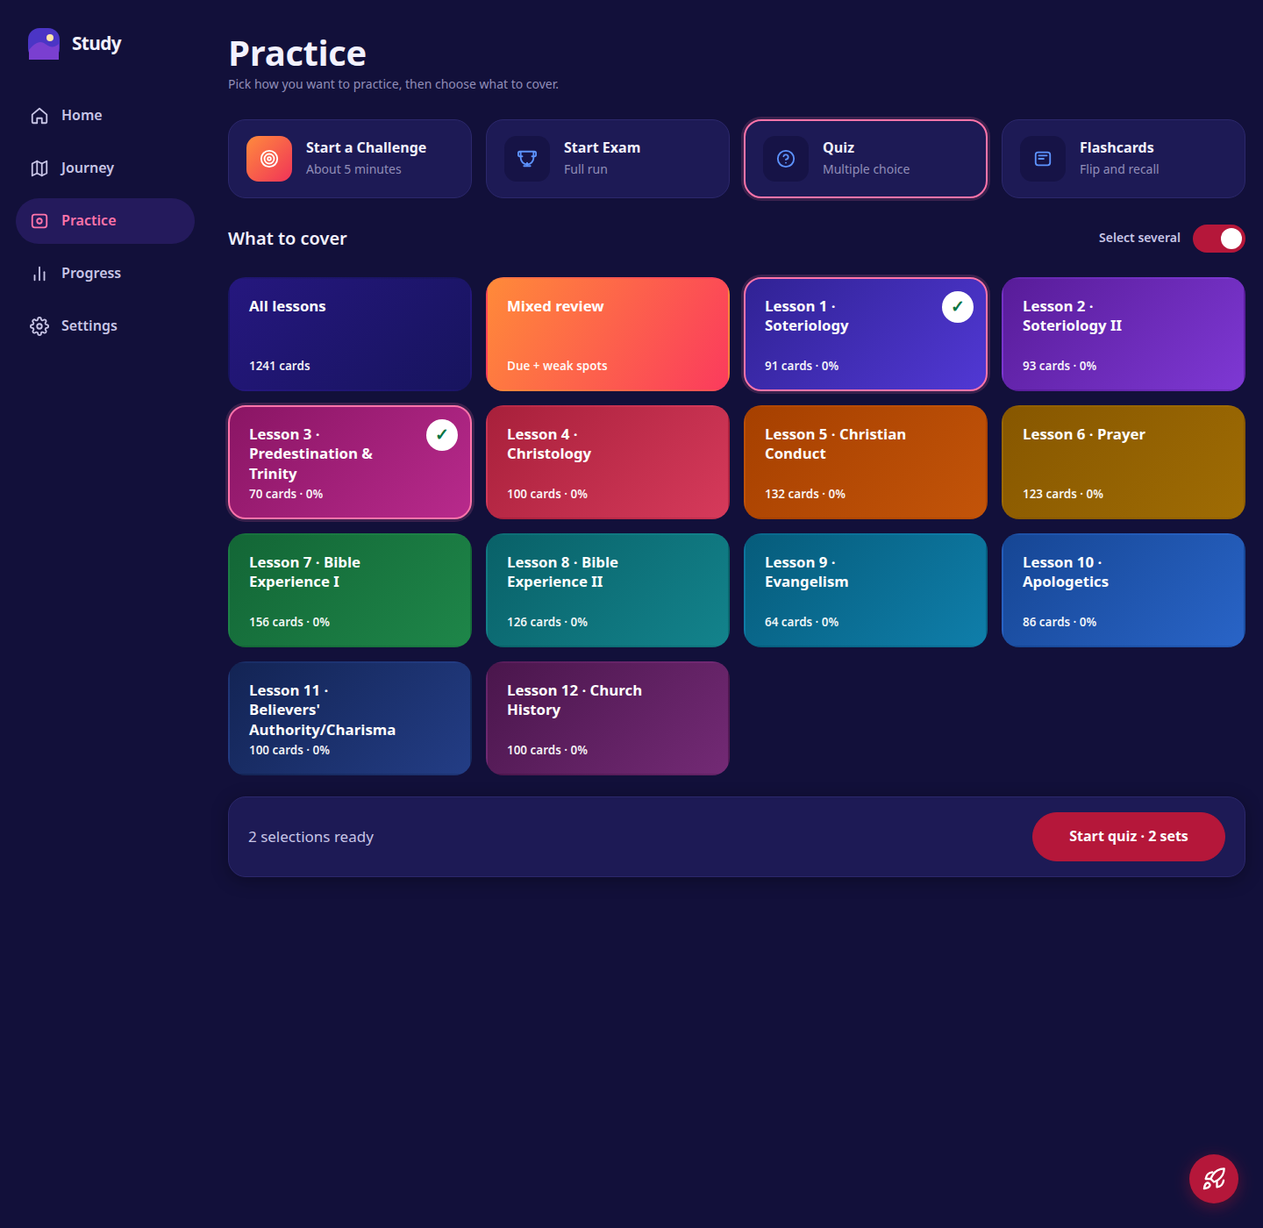
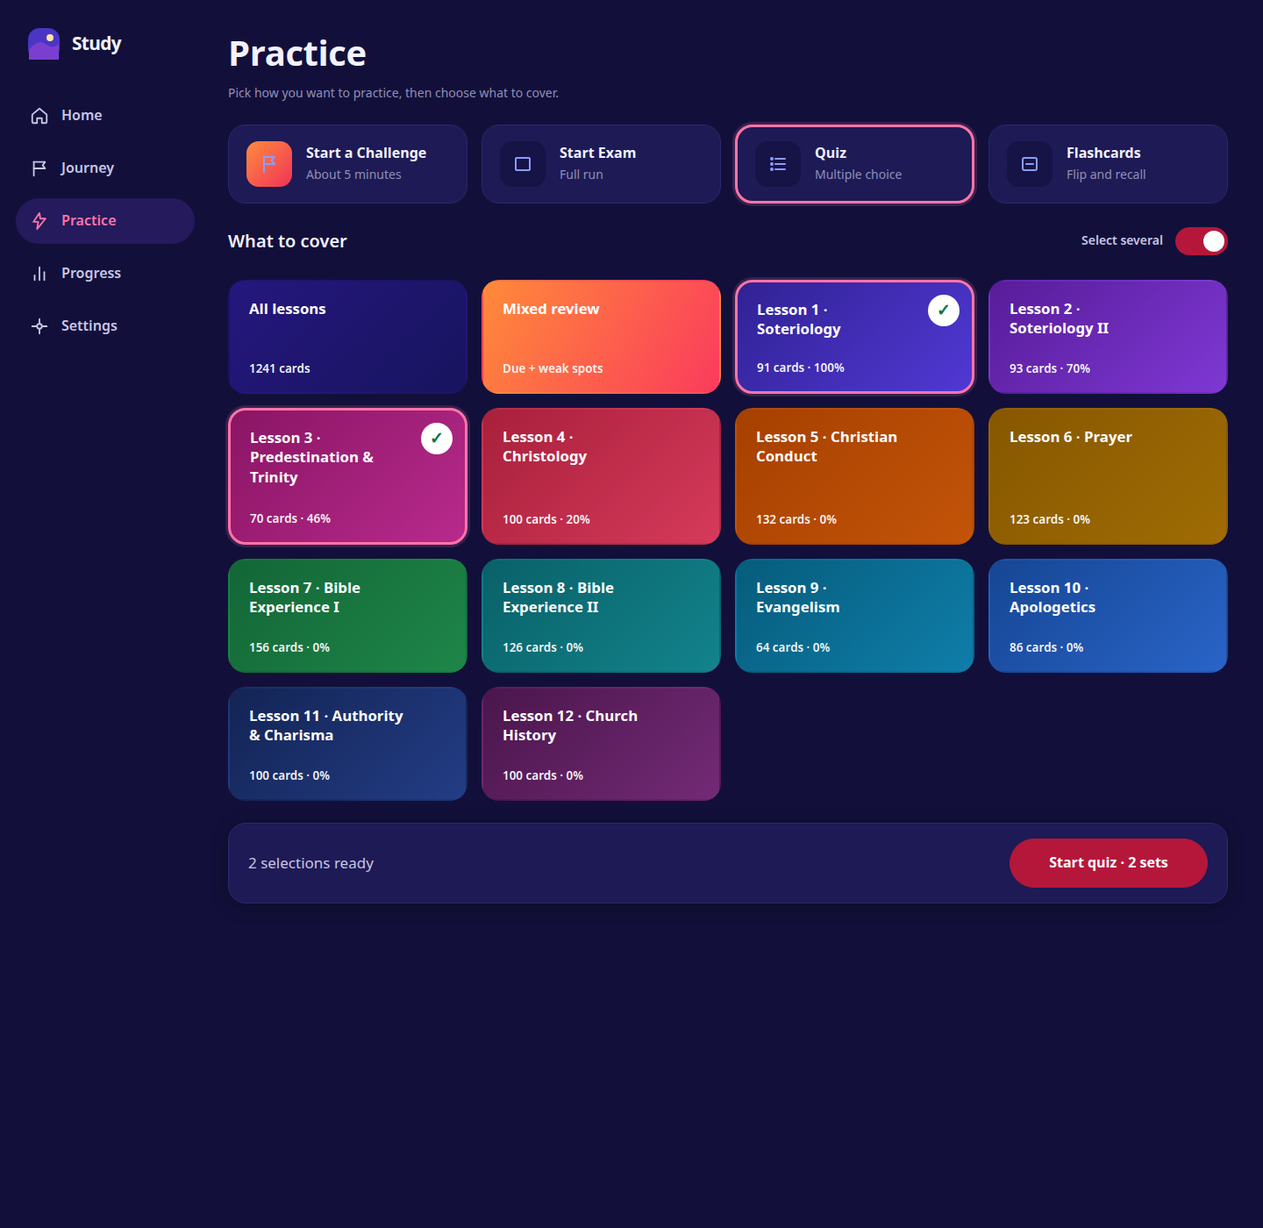
fix: align Practice chooser with desktop reference

Changed region(s): [[0.1562, 0.0614, 1.0, 0.7371], [0.9375, 0.9214, 1.0, 0.9829]]

diff --git a/dist/index.html b/dist/index.html
@@ -7646,6 +7646,61 @@ html[data-theme="dark"] .practice-cover-tile.is-selected {
   }
 }
 
+
+/* Desktop Practice reference corrections */
+@media (min-width: 901px) {
+  .desktop-main > .practice-selection-view {
+    width: calc(100% - 20px);
+    max-width: none;
+    margin-left: 0;
+  }
+
+  .practice-selection-view .practice-view-header h1 {
+    margin-bottom: 14px;
+  }
+
+  .practice-selection-view .practice-mode-grid {
+    margin: 26px 0 23px;
+  }
+
+  .practice-selection-view .practice-cover-heading {
+    margin-bottom: 24px;
+  }
+
+  .practice-selection-view .practice-mode-tile.is-selected {
+    border-width: 3px;
+  }
+
+  .practice-selection-view .practice-cover-tile.is-selected {
+    border-width: 3px;
+  }
+
+  .practice-selection-view .practice-cover-grid > .practice-cover-tile:nth-child(n+5):nth-child(-n+8) {
+    min-height: 156px;
+  }
+
+  .practice-selection-view .practice-start-button {
+    min-width: 226px;
+  }
+
+  .practice-selection-view .practice-start-bar {
+    margin-top: 25px;
+  }
+
+  .practice-selection-view .practice-cover-tile.deck-grad-11 .practice-cover-title {
+    max-width: 190px;
+    padding-right: 0;
+  }
+
+  .practice-selection-view .practice-mode-icon {
+    color: #3928B9;
+  }
+
+  :root[data-theme="dark"] .practice-selection-view .practice-mode-icon {
+    color: #8B9CFF;
+  }
+}
+
 </style>
 </head>
 <body>
@@ -9191,13 +9246,13 @@ html[data-theme="dark"] .practice-cover-tile.is-selected {
       case 'home':
         return '<svg viewBox="0 0 24 24" width="22" height="22" stroke="currentColor" stroke-width="2" fill="none" stroke-linecap="round" stroke-linejoin="round" aria-hidden="true"><path d="M3 10.5L12 3l9 7.5V20a1 1 0 0 1-1 1h-5v-6h-6v6H4a1 1 0 0 1-1-1z"/></svg>';
       case 'journey':
-        return '<svg viewBox="0 0 24 24" width="22" height="22" stroke="currentColor" stroke-width="2" fill="none" stroke-linecap="round" stroke-linejoin="round" aria-hidden="true"><polygon points="3 6 9 3 15 6 21 3 21 18 15 21 9 18 3 21"/><line x1="9" y1="3" x2="9" y2="18"/><line x1="15" y1="6" x2="15" y2="21"/></svg>';
+        return '<svg viewBox="0 0 24 24" width="22" height="22" stroke="currentColor" stroke-width="2" fill="none" stroke-linecap="round" stroke-linejoin="round" aria-hidden="true"><path d="M5 21V4"/><path d="M5 4h14l-3 4 3 4H5"/></svg>';
       case 'practice':
-        return '<svg viewBox="0 0 24 24" width="22" height="22" stroke="currentColor" stroke-width="2" fill="none" stroke-linecap="round" stroke-linejoin="round" aria-hidden="true"><rect x="3" y="4" width="18" height="16" rx="3"/><circle cx="12" cy="12" r="3"/><line x1="12" y1="9" x2="12" y2="9.01"/><line x1="12" y1="15" x2="12" y2="15.01"/></svg>';
+        return '<svg viewBox="0 0 24 24" width="22" height="22" stroke="currentColor" stroke-width="2" fill="none" stroke-linecap="round" stroke-linejoin="round" aria-hidden="true"><path d="M12 2 4.5 13h6L9 22l10.5-13H13z"/></svg>';
       case 'progress':
         return '<svg viewBox="0 0 24 24" width="22" height="22" stroke="currentColor" stroke-width="2" fill="none" stroke-linecap="round" stroke-linejoin="round" aria-hidden="true"><line x1="18" y1="20" x2="18" y2="10"/><line x1="12" y1="20" x2="12" y2="4"/><line x1="6" y1="20" x2="6" y2="14"/></svg>';
       case 'settings':
-        return '<svg viewBox="0 0 24 24" width="22" height="22" stroke="currentColor" stroke-width="2" fill="none" stroke-linecap="round" stroke-linejoin="round" aria-hidden="true"><circle cx="12" cy="12" r="3"/><path d="M19.4 15a1.65 1.65 0 0 0 .33 1.82l.06.06a2 2 0 1 1-2.83 2.83l-.06-.06a1.65 1.65 0 0 0-1.82-.33 1.65 1.65 0 0 0-1 1.51V21a2 2 0 1 1-4 0v-.09A1.65 1.65 0 0 0 9 19.4a1.65 1.65 0 0 0-1.82.33l-.06.06a2 2 0 1 1-2.83-2.83l.06-.06a1.65 1.65 0 0 0 .33-1.82 1.65 1.65 0 0 0-1.51-1H3a2 2 0 1 1 0-4h.09A1.65 1.65 0 0 0 4.6 9a1.65 1.65 0 0 0-.33-1.82l-.06-.06a2 2 0 1 1 2.83-2.83l.06.06a1.65 1.65 0 0 0 1.82.33H9a1.65 1.65 0 0 0 1-1.51V3a2 2 0 1 1 4 0v.09a1.65 1.65 0 0 0 1 1.51 1.65 1.65 0 0 0 1.82-.33l.06-.06a2 2 0 1 1 2.83 2.83l-.06.06a1.65 1.65 0 0 0-.33 1.82V9a1.65 1.65 0 0 0 1.51 1H21a2 2 0 1 1 0 4h-.09a1.65 1.65 0 0 0-1.51 1z"/></svg>';
+        return '<svg viewBox="0 0 24 24" width="22" height="22" stroke="currentColor" stroke-width="2" fill="none" stroke-linecap="round" stroke-linejoin="round" aria-hidden="true"><line x1="12" y1="3" x2="12" y2="8"/><line x1="12" y1="16" x2="12" y2="21"/><line x1="3" y1="12" x2="8" y2="12"/><line x1="16" y1="12" x2="21" y2="12"/><circle cx="12" cy="12" r="3"/></svg>';
       default:
         return '';
     }
@@ -9578,6 +9633,14 @@ html[data-theme="dark"] .practice-cover-tile.is-selected {
 
   function getStepIconSvg(icon) {
     switch (icon) {
+      case 'practice-challenge':
+        return '<svg viewBox="0 0 24 24" width="24" height="24" stroke="currentColor" stroke-width="2" fill="none" stroke-linecap="round" stroke-linejoin="round" aria-hidden="true"><path d="M6 21V4"/><path d="M6 4h12l-3.5 4 3.5 4H6"/></svg>';
+      case 'practice-exam':
+        return '<svg viewBox="0 0 24 24" width="24" height="24" stroke="currentColor" stroke-width="2" fill="none" stroke-linecap="round" stroke-linejoin="round" aria-hidden="true"><rect x="4" y="5" width="16" height="14" rx="1"/></svg>';
+      case 'practice-quiz':
+        return '<svg viewBox="0 0 24 24" width="24" height="24" stroke="currentColor" stroke-width="2" fill="none" stroke-linecap="round" stroke-linejoin="round" aria-hidden="true"><circle cx="5" cy="6" r="1"/><line x1="9" y1="6" x2="20" y2="6"/><circle cx="5" cy="12" r="1"/><line x1="9" y1="12" x2="20" y2="12"/><circle cx="5" cy="18" r="1"/><line x1="9" y1="18" x2="20" y2="18"/></svg>';
+      case 'practice-flash':
+        return '<svg viewBox="0 0 24 24" width="24" height="24" stroke="currentColor" stroke-width="2" fill="none" stroke-linecap="round" stroke-linejoin="round" aria-hidden="true"><rect x="4" y="5" width="16" height="14" rx="2"/><line x1="8" y1="12" x2="16" y2="12"/></svg>';
       case 'flash':
         return '<svg viewBox="0 0 24 24" width="22" height="22" stroke="currentColor" stroke-width="2" fill="none" stroke-linecap="round" stroke-linejoin="round" aria-hidden="true"><rect x="3" y="4" width="18" height="16" rx="3"/><line x1="7" y1="8" x2="17" y2="8"/><line x1="7" y1="12" x2="13" y2="12"/></svg>';
       case 'quiz':
@@ -9743,10 +9806,10 @@ html[data-theme="dark"] .practice-cover-tile.is-selected {
     var allSelected = S.decks.length > 0 && S.decks.every(function (d) { return SEL.has(d.id); });
     var selectedCount = SEL.size + (V.practiceMixed ? 1 : 0);
     var modeTiles = [
-      { id: 'challenge', title: 'Start a Challenge', description: 'About 5 minutes', icon: 'target' },
-      { id: 'exam', title: 'Start Exam', description: 'Full run', icon: 'trophy' },
-      { id: 'quiz', title: 'Quiz', description: 'Multiple choice', icon: 'quiz' },
-      { id: 'flash', title: 'Flashcards', description: 'Flip and recall', icon: 'flash' }
+      { id: 'challenge', title: 'Start a Challenge', description: 'About 5 minutes', icon: 'practice-challenge' },
+      { id: 'exam', title: 'Start Exam', description: 'Full run', icon: 'practice-exam' },
+      { id: 'quiz', title: 'Quiz', description: 'Multiple choice', icon: 'practice-quiz' },
+      { id: 'flash', title: 'Flashcards', description: 'Flip and recall', icon: 'practice-flash' }
     ].map(function (item) {
       var selected = mode === item.id;
       return '<button type="button" class="practice-mode-tile' + (selected ? ' is-selected' : '') + '" data-act="practice-mode" data-mode="' + item.id + '" aria-pressed="' + selected + '">' +
@@ -9757,11 +9820,12 @@ html[data-theme="dark"] .practice-cover-tile.is-selected {
     var deckTiles = S.decks.map(function (d, index) {
       var parsed = MobileStudy.parseChapterTitle(d.title);
       var section = parsed.sectionNum || index + 1;
+      var displayTopic = section === 11 && parsed.topic === "Believers' Authority/Charisma" ? 'Authority & Charisma' : parsed.topic;
       var mastered = d.cards.filter(function (card) { return isMastered(d.id, card.id); }).length;
       var pct = d.cards.length ? Math.round(100 * mastered / d.cards.length) : 0;
       var selected = SEL.has(d.id);
-      return '<button type="button" class="practice-cover-tile deck-grad-' + (((section - 1) % 12) + 1) + (selected ? ' is-selected' : '') + '" data-act="practice-cover" data-id="' + esc(d.id) + '" aria-pressed="' + selected + '" aria-label="Lesson ' + section + ', ' + esc(parsed.topic) + ', ' + d.cards.length + ' cards, ' + pct + ' percent mastered">' +
-        '<span class="practice-cover-title">Lesson ' + section + ' · ' + esc(parsed.topic) + '</span>' +
+      return '<button type="button" class="practice-cover-tile deck-grad-' + (((section - 1) % 12) + 1) + (selected ? ' is-selected' : '') + '" data-act="practice-cover" data-id="' + esc(d.id) + '" aria-pressed="' + selected + '" aria-label="Lesson ' + section + ', ' + esc(displayTopic) + ', ' + d.cards.length + ' cards, ' + pct + ' percent mastered">' +
+        '<span class="practice-cover-title">Lesson ' + section + ' · ' + esc(displayTopic) + '</span>' +
         '<span class="practice-cover-stats">' + d.cards.length + ' cards · ' + pct + '%</span>' +
         (selected ? '<span class="practice-cover-check" aria-hidden="true">✓</span>' : '') +
       '</button>';
@@ -10760,7 +10824,7 @@ html[data-theme="dark"] .practice-cover-tile.is-selected {
     var view = V.name === 'exam' ? views.quiz : views[V.name];
     if (typeof view !== 'function') view = views.home;
     var tabBarHtml = isMainTab ? renderTabBar(V.name) : '';
-    var showRocket = V.name === 'home' || V.name === 'journey' || V.name === 'practice';
+    var showRocket = V.name === 'home' || V.name === 'journey';
     var rocketHtml = showRocket ? renderRocketFab() : '';
     app.innerHTML = banner() +
       '<div class="desktop-shell' + (hasDesktopSidebar ? '' : ' desktop-shell-full') + (V.name === 'home' ? ' desktop-shell-home' : '') + '">' +

diff --git a/js/app.js b/js/app.js
@@ -499,13 +499,13 @@
       case 'home':
         return '<svg viewBox="0 0 24 24" width="22" height="22" stroke="currentColor" stroke-width="2" fill="none" stroke-linecap="round" stroke-linejoin="round" aria-hidden="true"><path d="M3 10.5L12 3l9 7.5V20a1 1 0 0 1-1 1h-5v-6h-6v6H4a1 1 0 0 1-1-1z"/></svg>';
       case 'journey':
-        return '<svg viewBox="0 0 24 24" width="22" height="22" stroke="currentColor" stroke-width="2" fill="none" stroke-linecap="round" stroke-linejoin="round" aria-hidden="true"><polygon points="3 6 9 3 15 6 21 3 21 18 15 21 9 18 3 21"/><line x1="9" y1="3" x2="9" y2="18"/><line x1="15" y1="6" x2="15" y2="21"/></svg>';
+        return '<svg viewBox="0 0 24 24" width="22" height="22" stroke="currentColor" stroke-width="2" fill="none" stroke-linecap="round" stroke-linejoin="round" aria-hidden="true"><path d="M5 21V4"/><path d="M5 4h14l-3 4 3 4H5"/></svg>';
       case 'practice':
-        return '<svg viewBox="0 0 24 24" width="22" height="22" stroke="currentColor" stroke-width="2" fill="none" stroke-linecap="round" stroke-linejoin="round" aria-hidden="true"><rect x="3" y="4" width="18" height="16" rx="3"/><circle cx="12" cy="12" r="3"/><line x1="12" y1="9" x2="12" y2="9.01"/><line x1="12" y1="15" x2="12" y2="15.01"/></svg>';
+        return '<svg viewBox="0 0 24 24" width="22" height="22" stroke="currentColor" stroke-width="2" fill="none" stroke-linecap="round" stroke-linejoin="round" aria-hidden="true"><path d="M12 2 4.5 13h6L9 22l10.5-13H13z"/></svg>';
       case 'progress':
         return '<svg viewBox="0 0 24 24" width="22" height="22" stroke="currentColor" stroke-width="2" fill="none" stroke-linecap="round" stroke-linejoin="round" aria-hidden="true"><line x1="18" y1="20" x2="18" y2="10"/><line x1="12" y1="20" x2="12" y2="4"/><line x1="6" y1="20" x2="6" y2="14"/></svg>';
       case 'settings':
-        return '<svg viewBox="0 0 24 24" width="22" height="22" stroke="currentColor" stroke-width="2" fill="none" stroke-linecap="round" stroke-linejoin="round" aria-hidden="true"><circle cx="12" cy="12" r="3"/><path d="M19.4 15a1.65 1.65 0 0 0 .33 1.82l.06.06a2 2 0 1 1-2.83 2.83l-.06-.06a1.65 1.65 0 0 0-1.82-.33 1.65 1.65 0 0 0-1 1.51V21a2 2 0 1 1-4 0v-.09A1.65 1.65 0 0 0 9 19.4a1.65 1.65 0 0 0-1.82.33l-.06.06a2 2 0 1 1-2.83-2.83l.06-.06a1.65 1.65 0 0 0 .33-1.82 1.65 1.65 0 0 0-1.51-1H3a2 2 0 1 1 0-4h.09A1.65 1.65 0 0 0 4.6 9a1.65 1.65 0 0 0-.33-1.82l-.06-.06a2 2 0 1 1 2.83-2.83l.06.06a1.65 1.65 0 0 0 1.82.33H9a1.65 1.65 0 0 0 1-1.51V3a2 2 0 1 1 4 0v.09a1.65 1.65 0 0 0 1 1.51 1.65 1.65 0 0 0 1.82-.33l.06-.06a2 2 0 1 1 2.83 2.83l-.06.06a1.65 1.65 0 0 0-.33 1.82V9a1.65 1.65 0 0 0 1.51 1H21a2 2 0 1 1 0 4h-.09a1.65 1.65 0 0 0-1.51 1z"/></svg>';
+        return '<svg viewBox="0 0 24 24" width="22" height="22" stroke="currentColor" stroke-width="2" fill="none" stroke-linecap="round" stroke-linejoin="round" aria-hidden="true"><line x1="12" y1="3" x2="12" y2="8"/><line x1="12" y1="16" x2="12" y2="21"/><line x1="3" y1="12" x2="8" y2="12"/><line x1="16" y1="12" x2="21" y2="12"/><circle cx="12" cy="12" r="3"/></svg>';
       default:
         return '';
     }
@@ -886,6 +886,14 @@
 
   function getStepIconSvg(icon) {
     switch (icon) {
+      case 'practice-challenge':
+        return '<svg viewBox="0 0 24 24" width="24" height="24" stroke="currentColor" stroke-width="2" fill="none" stroke-linecap="round" stroke-linejoin="round" aria-hidden="true"><path d="M6 21V4"/><path d="M6 4h12l-3.5 4 3.5 4H6"/></svg>';
+      case 'practice-exam':
+        return '<svg viewBox="0 0 24 24" width="24" height="24" stroke="currentColor" stroke-width="2" fill="none" stroke-linecap="round" stroke-linejoin="round" aria-hidden="true"><rect x="4" y="5" width="16" height="14" rx="1"/></svg>';
+      case 'practice-quiz':
+        return '<svg viewBox="0 0 24 24" width="24" height="24" stroke="currentColor" stroke-width="2" fill="none" stroke-linecap="round" stroke-linejoin="round" aria-hidden="true"><circle cx="5" cy="6" r="1"/><line x1="9" y1="6" x2="20" y2="6"/><circle cx="5" cy="12" r="1"/><line x1="9" y1="12" x2="20" y2="12"/><circle cx="5" cy="18" r="1"/><line x1="9" y1="18" x2="20" y2="18"/></svg>';
+      case 'practice-flash':
+        return '<svg viewBox="0 0 24 24" width="24" height="24" stroke="currentColor" stroke-width="2" fill="none" stroke-linecap="round" stroke-linejoin="round" aria-hidden="true"><rect x="4" y="5" width="16" height="14" rx="2"/><line x1="8" y1="12" x2="16" y2="12"/></svg>';
       case 'flash':
         return '<svg viewBox="0 0 24 24" width="22" height="22" stroke="currentColor" stroke-width="2" fill="none" stroke-linecap="round" stroke-linejoin="round" aria-hidden="true"><rect x="3" y="4" width="18" height="16" rx="3"/><line x1="7" y1="8" x2="17" y2="8"/><line x1="7" y1="12" x2="13" y2="12"/></svg>';
       case 'quiz':
@@ -1051,10 +1059,10 @@
     var allSelected = S.decks.length > 0 && S.decks.every(function (d) { return SEL.has(d.id); });
     var selectedCount = SEL.size + (V.practiceMixed ? 1 : 0);
     var modeTiles = [
-      { id: 'challenge', title: 'Start a Challenge', description: 'About 5 minutes', icon: 'target' },
-      { id: 'exam', title: 'Start Exam', description: 'Full run', icon: 'trophy' },
-      { id: 'quiz', title: 'Quiz', description: 'Multiple choice', icon: 'quiz' },
-      { id: 'flash', title: 'Flashcards', description: 'Flip and recall', icon: 'flash' }
+      { id: 'challenge', title: 'Start a Challenge', description: 'About 5 minutes', icon: 'practice-challenge' },
+      { id: 'exam', title: 'Start Exam', description: 'Full run', icon: 'practice-exam' },
+      { id: 'quiz', title: 'Quiz', description: 'Multiple choice', icon: 'practice-quiz' },
+      { id: 'flash', title: 'Flashcards', description: 'Flip and recall', icon: 'practice-flash' }
     ].map(function (item) {
       var selected = mode === item.id;
       return '<button type="button" class="practice-mode-tile' + (selected ? ' is-selected' : '') + '" data-act="practice-mode" data-mode="' + item.id + '" aria-pressed="' + selected + '">' +
@@ -1065,11 +1073,12 @@
     var deckTiles = S.decks.map(function (d, index) {
       var parsed = MobileStudy.parseChapterTitle(d.title);
       var section = parsed.sectionNum || index + 1;
+      var displayTopic = section === 11 && parsed.topic === "Believers' Authority/Charisma" ? 'Authority & Charisma' : parsed.topic;
       var mastered = d.cards.filter(function (card) { return isMastered(d.id, card.id); }).length;
       var pct = d.cards.length ? Math.round(100 * mastered / d.cards.length) : 0;
       var selected = SEL.has(d.id);
-      return '<button type="button" class="practice-cover-tile deck-grad-' + (((section - 1) % 12) + 1) + (selected ? ' is-selected' : '') + '" data-act="practice-cover" data-id="' + esc(d.id) + '" aria-pressed="' + selected + '" aria-label="Lesson ' + section + ', ' + esc(parsed.topic) + ', ' + d.cards.length + ' cards, ' + pct + ' percent mastered">' +
-        '<span class="practice-cover-title">Lesson ' + section + ' · ' + esc(parsed.topic) + '</span>' +
+      return '<button type="button" class="practice-cover-tile deck-grad-' + (((section - 1) % 12) + 1) + (selected ? ' is-selected' : '') + '" data-act="practice-cover" data-id="' + esc(d.id) + '" aria-pressed="' + selected + '" aria-label="Lesson ' + section + ', ' + esc(displayTopic) + ', ' + d.cards.length + ' cards, ' + pct + ' percent mastered">' +
+        '<span class="practice-cover-title">Lesson ' + section + ' · ' + esc(displayTopic) + '</span>' +
         '<span class="practice-cover-stats">' + d.cards.length + ' cards · ' + pct + '%</span>' +
         (selected ? '<span class="practice-cover-check" aria-hidden="true">✓</span>' : '') +
       '</button>';
@@ -2068,7 +2077,7 @@
     var view = V.name === 'exam' ? views.quiz : views[V.name];
     if (typeof view !== 'function') view = views.home;
     var tabBarHtml = isMainTab ? renderTabBar(V.name) : '';
-    var showRocket = V.name === 'home' || V.name === 'journey' || V.name === 'practice';
+    var showRocket = V.name === 'home' || V.name === 'journey';
     var rocketHtml = showRocket ? renderRocketFab() : '';
     app.innerHTML = banner() +
       '<div class="desktop-shell' + (hasDesktopSidebar ? '' : ' desktop-shell-full') + (V.name === 'home' ? ' desktop-shell-home' : '') + '">' +

diff --git a/scripts/capture-final-pass-screenshots.js b/scripts/capture-final-pass-screenshots.js
@@ -183,6 +183,54 @@ async function showPractice(client) {
   }
 }
 
+async function seedPracticeReferenceProgress(client) {
+  const result = await client.evaluate(`(async () => {
+    const request = indexedDB.open('cci-study-data', 1);
+    const db = await new Promise((resolve, reject) => {
+      request.onsuccess = () => resolve(request.result);
+      request.onerror = () => reject(request.error || new Error('Could not open screenshot storage'));
+    });
+    const read = db.transaction('state', 'readonly').objectStore('state').get('current');
+    const raw = await new Promise((resolve, reject) => {
+      read.onsuccess = () => resolve(read.result);
+      read.onerror = () => reject(read.error || new Error('Could not read screenshot state'));
+    });
+    const state = typeof raw === 'string' ? JSON.parse(raw) : raw;
+    if (!state || !Array.isArray(state.decks) || state.decks.length < 4) {
+      db.close();
+      return false;
+    }
+    state.progress = state.progress && typeof state.progress === 'object' ? state.progress : {};
+    const percentages = [100, 70, 45, 20];
+    const masteredCounts = [];
+    state.decks.slice(0, 4).forEach((deck, index) => {
+      const existing = state.progress[deck.id];
+      const record = existing && typeof existing === 'object' && !Array.isArray(existing)
+        ? existing
+        : { best: null, cards: {} };
+      record.cards = record.cards && typeof record.cards === 'object' && !Array.isArray(record.cards) ? record.cards : {};
+      const count = Math.round(deck.cards.length * percentages[index] / 100);
+      masteredCounts.push(count);
+      deck.cards.forEach((card, cardIndex) => {
+        if (cardIndex < count) record.cards[card.id] = Object.assign({}, record.cards[card.id], { box: 2 });
+      });
+      state.progress[deck.id] = record;
+    });
+    const transaction = db.transaction('state', 'readwrite');
+    transaction.objectStore('state').put(JSON.stringify(state), 'current');
+    await new Promise((resolve, reject) => {
+      transaction.oncomplete = resolve;
+      transaction.onerror = () => reject(transaction.error || new Error('Could not save screenshot progress'));
+      transaction.onabort = () => reject(transaction.error || new Error('Screenshot progress write was aborted'));
+    });
+    db.close();
+    return masteredCounts;
+  })()`);
+  if (!Array.isArray(result)) throw new Error('Could not seed isolated Practice reference progress');
+  await client.send('Page.navigate', { url: distHtml });
+  await waitFor(client, 'document.querySelector(".home-view")', 'the app after seeding Practice progress');
+}
+
 async function showJourney(client) {
   await clickVisible(client, '[data-act="nav-tab"][data-tab="journey"]');
   await waitFor(client, 'document.querySelector(".chapter-card-main-hit")', 'Journey chapters');
@@ -274,7 +322,10 @@ async function captureMatrix(client) {
     ['home', async () => {
       await waitFor(client, 'document.querySelector(".home-view")', 'the Home view');
     }],
-    ['practice', () => showPractice(client)],
+    ['practice', async viewport => {
+      if (viewport.name === 'desktop-1440') await seedPracticeReferenceProgress(client);
+      await showPractice(client);
+    }],
     ['quiz', () => showQuiz(client)],
     ['devotion', () => showDevotion(client)]
   ];
@@ -283,7 +334,7 @@ async function captureMatrix(client) {
     for (const theme of themes) {
       for (const [scene, prepare] of scenes) {
         await resetPage(client, theme, viewport);
-        await prepare();
+        await prepare(viewport, theme);
         await sleep(200);
         const title = await client.evaluate(`(() => {
           const heading = document.querySelector(".quiz-question-text, .devotional-title, main h1, .home-view h1");

diff --git a/style.css b/style.css
@@ -7632,3 +7632,58 @@ html[data-theme="dark"] .practice-cover-tile.is-selected {
     min-height: 242px;
   }
 }
+
+
+/* Desktop Practice reference corrections */
+@media (min-width: 901px) {
+  .desktop-main > .practice-selection-view {
+    width: calc(100% - 20px);
+    max-width: none;
+    margin-left: 0;
+  }
+
+  .practice-selection-view .practice-view-header h1 {
+    margin-bottom: 14px;
+  }
+
+  .practice-selection-view .practice-mode-grid {
+    margin: 26px 0 23px;
+  }
+
+  .practice-selection-view .practice-cover-heading {
+    margin-bottom: 24px;
+  }
+
+  .practice-selection-view .practice-mode-tile.is-selected {
+    border-width: 3px;
+  }
+
+  .practice-selection-view .practice-cover-tile.is-selected {
+    border-width: 3px;
+  }
+
+  .practice-selection-view .practice-cover-grid > .practice-cover-tile:nth-child(n+5):nth-child(-n+8) {
+    min-height: 156px;
+  }
+
+  .practice-selection-view .practice-start-button {
+    min-width: 226px;
+  }
+
+  .practice-selection-view .practice-start-bar {
+    margin-top: 25px;
+  }
+
+  .practice-selection-view .practice-cover-tile.deck-grad-11 .practice-cover-title {
+    max-width: 190px;
+    padding-right: 0;
+  }
+
+  .practice-selection-view .practice-mode-icon {
+    color: #3928B9;
+  }
+
+  :root[data-theme="dark"] .practice-selection-view .practice-mode-icon {
+    color: #8B9CFF;
+  }
+}

diff --git a/tests/content-lint.test.js b/tests/content-lint.test.js
@@ -414,6 +414,9 @@ test('main tabs and Devotion keep desktop navigation while study sessions use th
       assert.match(elements.app.innerHTML, /data-act="practice-mode" data-mode="flash"/);
       assert.match(elements.app.innerHTML, /aria-label="Lessons to cover"/);
       assert.match(elements.app.innerHTML, /data-act="practice-start"/);
+      assert.doesNotMatch(elements.app.innerHTML, /id="rocket-fab-btn"/, 'Practice already provides its own study-mode choices');
+      assert.match(elements.app.innerHTML, /M12 2 4\.5 13h6/, 'Practice navigation uses the lightning icon from the desktop design');
+      assert.match(elements.app.innerHTML, /Authority &amp; Charisma/, 'Practice uses the concise Lesson 11 label from the desktop reference');
     }
   }
 
